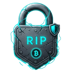
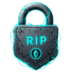
feat(app): mirror Solana brand refresh on EVM
Brings the EVM site in line with the Solana sister-site treatment.
Same design system, same typography spec, just the cyan accent stays.

Image ladder regenerated from a new 2508×2508 source — sharper detail
at every size:

  padlock-2048.png  2048×2048  hero-scale source
  mark-1024.png     1024×1024  RipGuardMark3D
  mark-288.png       288× 288  OG / Twitter card embed
  mark-72.png         72× 72   small marks
  logo-icon.png      512× 512  favicon + apple-touch
  icon-192.png       192× 192  PWA installable
  icon-512.png       512× 512  PWA installable

Typography spec applied (caps need less negative tracking at display,
positive tracking at small UI sizes):

  .brand-wordmark   letter-spacing -0.03em → -0.02em (display caps)
                    + .brand-wordmark > span + span margin 0.02em so
                    the RIP/GUARD accent split doesn't crash
  .text-hero        unchanged at -0.045em for mixed case, with new
                    .text-hero.uppercase override at -0.02em for caps
  .nav-link (new)   uppercase + letter-spacing 0.08em + 13px + weight
                    600 — UI caps need air to read at this size

Lockup changes:
- Lock SVG removed from header. Wordmark stands alone — TODO(logo)
  marker left where it was for when a real mark exists. The
  RipGuardMark export stays in Brand.tsx for future use.
- Header wordmark renders ALL CAPS at 20px (text-xl) with
  tracking-[0.01em] + the 0.02em hair gap before GUARD.
[…]

diff --git a/packages/app/src/app/page.tsx b/packages/app/src/app/page.tsx
@@ -6,7 +6,7 @@ import { useChainId } from "wagmi";
 import Link from "next/link";
 import { Header } from "@/components/Header";
 import { WelcomeModal } from "@/components/WelcomeModal";
-import { RipGuardMark, RipGuardMark3D } from "@/components/Brand";
+import { RipGuardMark3D } from "@/components/Brand";
 import { BRAND } from "@/content/brand";
 
 function PresetIcon({ variant }: { variant: "clock" | "shield" | "lock" }) {
@@ -234,16 +234,26 @@ export default function Home() {
                   </a>
                 </div>
 
-                {!IS_TESTNET && (
+                <div className="mt-6 flex flex-col gap-2 items-start">
+                  {!IS_TESTNET && (
+                    <a
+                      href="https://testnet.ripguard.xyz"
+                      className="inline-flex items-center gap-2 text-sm text-faint hover:text-cyan transition-colors animate-hero-enter"
+                      style={{ animationDelay: "620ms" }}
+                    >
+                      Test the flow on Base Sepolia
+                      <span aria-hidden>→</span>
+                    </a>
+                  )}
                   <a
-                    href="https://testnet.ripguard.xyz"
-                    className="mt-6 inline-flex items-center gap-2 text-sm text-faint hover:text-cyan transition-colors animate-hero-enter"
-                    style={{ animationDelay: "620ms" }}
+                    href="https://sol.ripguard.xyz"
+                    className="inline-flex items-center gap-2 text-sm text-faint hover:text-cyan transition-colors animate-hero-enter"
+                    style={{ animationDelay: IS_TESTNET ? "620ms" : "720ms" }}
                   >
-                    Test the flow on Base Sepolia
+                    Use RipGuard on Solana
                     <span aria-hidden>→</span>
                   </a>
-                )}
+                </div>
               </div>
 
               {/* 3D mark — floats free, no card frame. Outer wrapper handles
@@ -746,9 +756,16 @@ export default function Home() {
         {/* FOOTER */}
         <footer className="px-5 sm:px-8 py-16 border-t border-line">
           <div className="mx-auto max-w-6xl flex flex-col sm:flex-row items-center justify-between gap-8">
-            <div className="flex items-center gap-3">
-              <RipGuardMark className="h-6 w-6" />
-              <span className="font-display text-lg tracking-tight">RipGuard</span>
+            {/* Wordmark stands alone — same treatment as the header.
+                18px caps fall between the header's 20px (0.01em) and
+                UI caps (0.06em+), so 0.02em gives a hair more
+                breathing room without losing the bunker feel.
+                TODO(logo): slot a real lock mark left of the wordmark
+                when one exists. */}
+            <div className="flex items-center">
+              <span className="font-display text-lg uppercase tracking-[0.02em] leading-none">
+                RIP<span className="text-cyan ml-[0.02em]">GUARD</span>
+              </span>
             </div>
             <nav className="flex items-center gap-2 sm:gap-4 text-sm text-muted">
               <Link

diff --git a/packages/app/src/components/Header.tsx b/packages/app/src/components/Header.tsx
@@ -3,7 +3,6 @@
 import { ConnectButton } from "@rainbow-me/rainbowkit";
 import Link from "next/link";
 import { usePathname } from "next/navigation";
-import { RipGuardMark } from "@/components/Brand";
 
 type NavLink = { href: string; label: string; hash?: boolean };
 
@@ -26,15 +25,22 @@ export function Header() {
   return (
     <header className="sticky top-0 z-50 border-b border-line bg-background/85 backdrop-blur-xl">
       <div className="mx-auto flex max-w-6xl items-center justify-between px-5 py-5 sm:px-8">
-        {/* Brand lockup */}
+        {/* TODO(logo): when the proper RipGuard lock mark exists, render
+            it here at 32px, left of the wordmark. Wordmark stands alone
+            until then — keeps the perceived quality high relative to a
+            placeholder SVG. */}
         <Link
           href="/"
-          className="flex items-center gap-3 shrink-0 focus-visible:outline-2 focus-visible:outline-cyan focus-visible:outline-offset-4 focus-visible:rounded"
+          className="flex items-baseline gap-0 shrink-0 focus-visible:outline-2 focus-visible:outline-cyan focus-visible:outline-offset-4 focus-visible:rounded"
           aria-label="RipGuard home"
         >
-          <RipGuardMark className="h-9 w-9 shrink-0" />
-          <span className="font-display text-xl tracking-tight leading-none">
-            Rip<span className="text-cyan">Guard</span>
+          {/* Header wordmark renders ALL CAPS at 20px (text-xl). That
+              size sits in the "mid caps" tracking band — 0 to 0.02em.
+              tracking-[0.01em] keeps the bunker tightness without
+              crashing R/I or P/G. The .brand-wordmark utility is
+              reserved for the larger display contexts (hero, etc.). */}
+          <span className="font-display text-xl uppercase tracking-[0.01em] leading-none">
+            RIP<span className="text-cyan ml-[0.02em]">GUARD</span>
           </span>
         </Link>
 
@@ -42,7 +48,7 @@ export function Header() {
         <nav className="hidden md:flex items-center gap-2 absolute left-1/2 -translate-x-1/2">
           {navLinks.map((link) => {
             const isActive = !link.hash && pathname === link.href;
-            const className = `inline-flex items-center min-h-[2.75rem] px-4 text-sm font-medium transition-colors ${
+            const className = `nav-link inline-flex items-center min-h-[2.75rem] px-4 transition-colors ${
               isActive
                 ? "text-cyan"
                 : "text-muted hover:text-foreground"
@@ -64,7 +70,7 @@ export function Header() {
           <nav className="flex md:hidden items-center gap-0">
             {navLinks.slice(0, 2).map((link) => {
               const isActive = !link.hash && pathname === link.href;
-              const className = `inline-flex items-center min-h-[2.75rem] px-3 text-[0.8125rem] font-medium transition-colors ${
+              const className = `nav-link inline-flex items-center min-h-[2.75rem] px-3 transition-colors ${
                 isActive ? "text-cyan" : "text-muted hover:text-foreground"
               }`;
               return link.hash ? (

diff --git a/packages/app/src/app/globals.css b/packages/app/src/app/globals.css
@@ -99,13 +99,22 @@ body {
   letter-spacing: -0.02em;
 }
 
-/* Hero headline — the showpiece */
+/* Hero headline — the showpiece. Default tracking is calibrated for
+   mixed-case sentence text where lowercase ascenders/descenders need
+   the negative spacing to feel composed. */
 .text-hero {
   font-family: var(--font-display), var(--font-sans), sans-serif;
   font-weight: 400;
   font-size: var(--text-hero);
   line-height: 0.88;
   letter-spacing: -0.045em;
+}
+
+/* Override for uppercase hero — caps don't have ascenders/descenders so
+   they need less negative tracking to avoid crashing. Apply via
+   `<h1 class="text-hero uppercase">`. */
+.text-hero.uppercase {
+  letter-spacing: -0.02em;
 }
 
 /* Display heading for sections */
@@ -220,7 +229,9 @@ body {
   border: 0;
 }
 
-/* Brand wordmark — massive display type */
+/* Brand wordmark — massive display type. Tracking is -0.02em (not
+   -0.03em): caps in Archivo Black are already dense, and tighter
+   spacing makes the R and I crash into each other at hero scale. */
 .brand-wordmark {
   display: inline-flex;
   align-items: baseline;
@@ -228,8 +239,14 @@ body {
   font-weight: 400;
   font-size: clamp(2.5rem, 7vw, 5.5rem);
   line-height: 0.88;
-  letter-spacing: -0.03em;
+  letter-spacing: -0.02em;
   text-transform: uppercase;
+}
+
+/* Hair gap between adjacent spans inside the wordmark — stops P and G
+   from kissing where the accent split lives (RIP|GUARD). */
+.brand-wordmark > span + span {
+  margin-left: 0.02em;
 }
 
 .brand-wordmark-dim {
@@ -239,6 +256,17 @@ body {
 
 .brand-wordmark-accent {
   color: var(--cyan);
+}
+
+/* Header nav links — ALL CAPS at 13px. Small caps need *positive*
+   tracking to read; tight spacing makes them mush. 0.08em is the
+   floor for UI caps at this size (eyebrows at 11px take 0.18em — the
+   smaller the type, the more tracking). */
+.nav-link {
+  text-transform: uppercase;
+  letter-spacing: 0.08em;
+  font-size: 0.8125rem;
+  font-weight: 600;
 }
 
 /* Tagline beneath wordmark */

diff --git a/packages/app/src/components/ShareCard.tsx b/packages/app/src/components/ShareCard.tsx
@@ -40,7 +40,7 @@ function drawCard(
   // Branding
   ctx.fillStyle = "#ffffff";
   ctx.font = "bold 22px system-ui, -apple-system, sans-serif";
-  ctx.fillText("RipGuard", 32, 44);
+  ctx.fillText("RIPGUARD", 32, 44);
 
   ctx.fillStyle = "rgba(255,255,255,0.35)";
   ctx.font = "12px system-ui, -apple-system, sans-serif";
